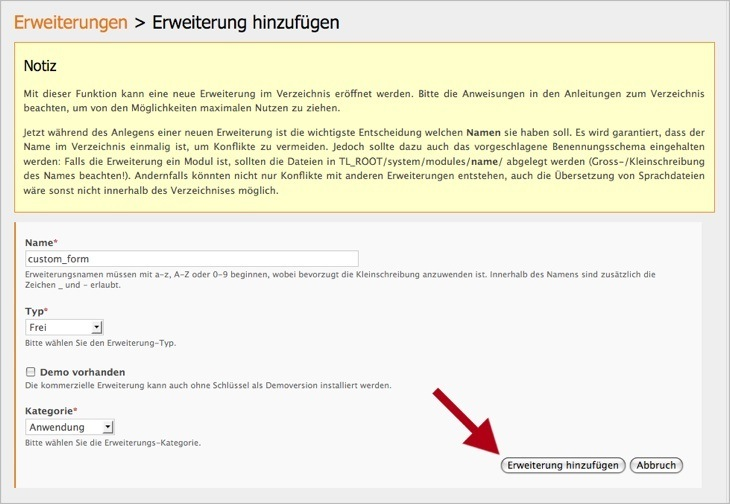
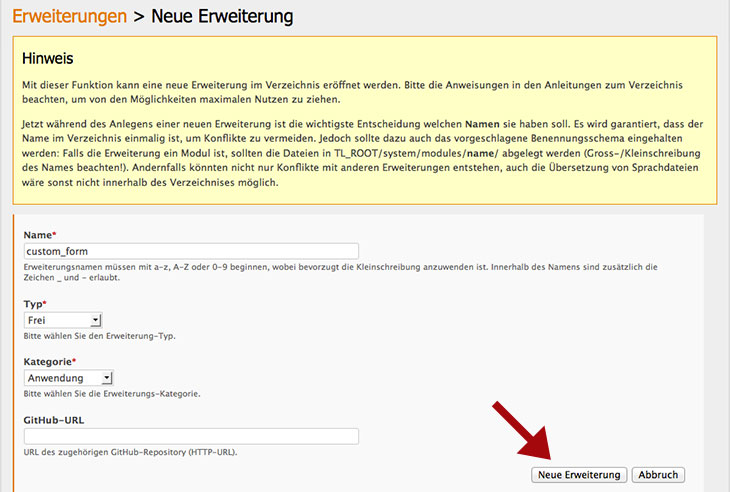
Chapter 8 (update in German)
Add new categories.
Add GitHub import in the Extension Repository.
Add new images (github-importieren.jpg + github-importieren-tag.jpg).
Update images (dateien-bearbeiten.jpg + erweiterung-hinzufuegen.jpg).

Changed region(s): [[0.0, 0.0, 1.0, 1.0], [0.5726, 0.7622, 0.9644, 1.0]]

diff --git a/manual/de/08-Extension-Repository.md b/manual/de/08-Extension-Repository.md
@@ -28,20 +28,28 @@ Folgende Kategorien sind momentan verfügbar:
   <td>Die Erweiterung ist eine eigenständige Anwendung.</td>
 </tr>
 <tr>
-  <td>Hilfsprogramm</td>
-  <td>Die Erweiterung ist ein Hilfsprogramm für das Backend.</td>
+  <td>Plugin</td>
+  <td>Die Erweiterung ist eine PHP- oder JavaScript-Library.</td>
 </tr>
 <tr>
-  <td>Vorlage</td>
-  <td>Die Erweiterung ist ein Template.</td>
+  <td>Theme</td>
+  <td>Die Erweiterung ist ein Theme für das Backend.</td>
+</tr>
+<tr>
+  <td>Hilfsprogramm</td>
+  <td>Die Erweiterung ist ein Hilfsprogramm für das Backend.</td>
 </tr>
 <tr>
   <td>Widget</td>
   <td>Die Erweiterung ist ein Eingabefeld (Widget) für Formulare.</td>
 </tr>
 <tr>
-  <td>Plugin</td>
-  <td>Die Erweiterung ist eine PHP- oder JavaScript-Library.</td>
+  <td>Übersetzung</td>
+  <td>Die Erweiterung ist eine Übersetzung für eine Version von Contao.</td>
+</tr>
+<tr>
+  <td>Bundle</td>
+  <td>Eine Gruppe von Erweiterungen, die gleichzeitig installiert werden kann.</td>
 </tr>
 <tr>
   <td>Andere</td>
@@ -100,6 +108,18 @@ Zielverzeichnis auszuwählen, damit die Pfade nach dem Upload stimmen.
 ![](https://raw.github.com/contao/docs/3.0/manual/de/images/dateien-hinzufuegen.jpg)
 
 ![](https://raw.github.com/contao/docs/3.0/manual/de/images/dateien-bearbeiten.jpg)
+
+## Adding files from a GitHub repository
+
+Die Dateien können auch aus einem GitHub-Repository importiert werden. Voaussetzung dafür ist, dass das Release mit einem Tag markiert wurde und dieser in das zentrale GitHub-Repository gepusht wurde.
+
+In den Extension-Einstellungen muss die HTTPS-URL des GitHub-Repository hinterlegt werden.
+
+![](https://raw.github.com/contao/docs/3.0/manual/de/images/github-importieren.jpg)
+
+Ihr könnt einen Tag auswählen und das Skript wird nun die .zip-Datei des Tags geladen und die darin enthaltenen Dateien werden entpackt und stehen danach wie bei einem manuellen Upload zur Verfügung.
+
+![](https://raw.github.com/contao/docs/3.0/manual/de/images/github-importieren-tag.jpg)
 
 
 ## Eine Übersetzung hinzufügen
